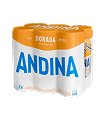
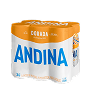
Fix: Product images

diff --git a/src/components/molecules/Modals/ModalAward/styles.module.css b/src/components/molecules/Modals/ModalAward/styles.module.css
@@ -52,7 +52,7 @@
 .productImage {
   width: 100%;
   height: 100%;
-  object-fit: contain;
+  object-fit: cover;
 }
 
 .productName {
